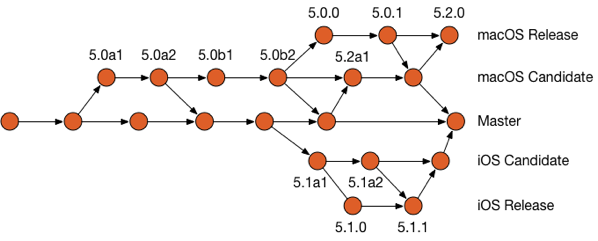
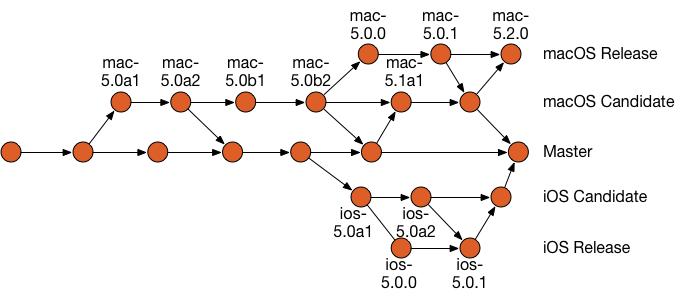
Update branching strategy with new tagging methodology.

diff --git a/Technotes/BranchingStrategy.md b/Technotes/BranchingStrategy.md
@@ -21,7 +21,7 @@ There will also be a number of repository forks that NetNewWire developers will 
 
 ## Tagging
 
-Each release should be tagged using [Semantic Versioning](https://semver.org/).  Candidates will continue to be tagged using the current convention which denotes the difference between developer, alpha and beta releases.  Additionally, we will need to use a convention to avoid tag name collisions between iOS and macOS products.  macOS will use even minor release numbers and iOS will use odd minor release numbers.  (See the above diagram for examples.)
+Each release should be tagged using [Semantic Versioning](https://semver.org/).  Candidates will continue to be tagged using the current convention which denotes the difference between developer, alpha and beta releases.  Additionally, we will need to use a convention to avoid tag name collisions between iOS and macOS products.  macOS releases will be suffixed with "mac-" and iOS releases will be suffixed with "ios-".  (See the above diagram for examples.)  
 
 ## Submodules
 
